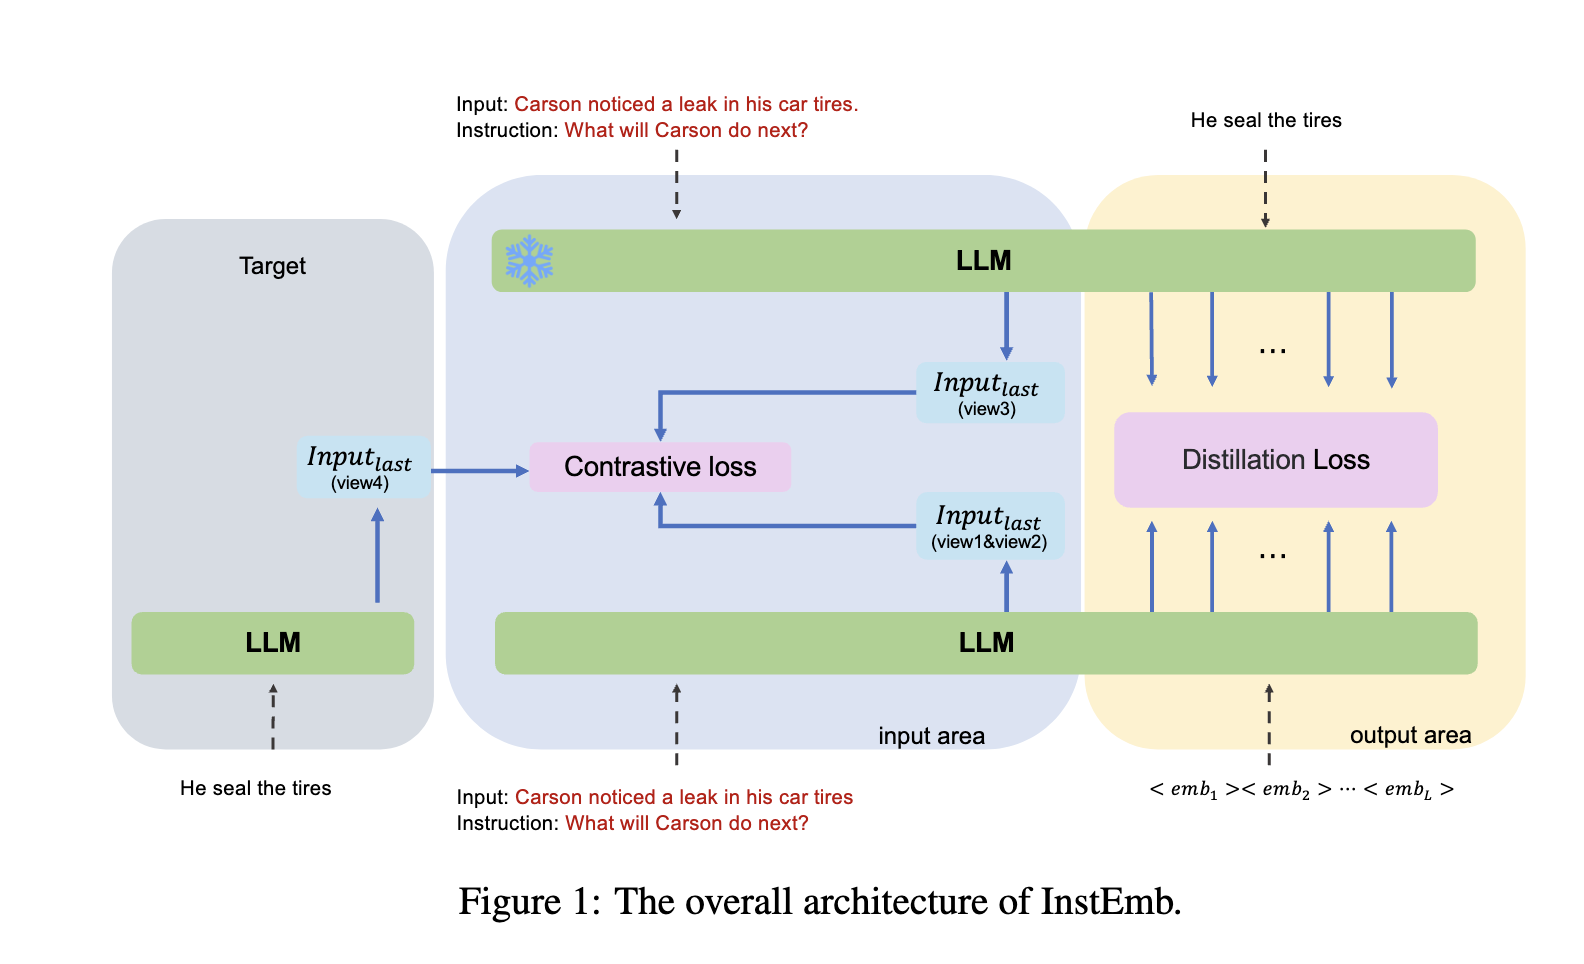
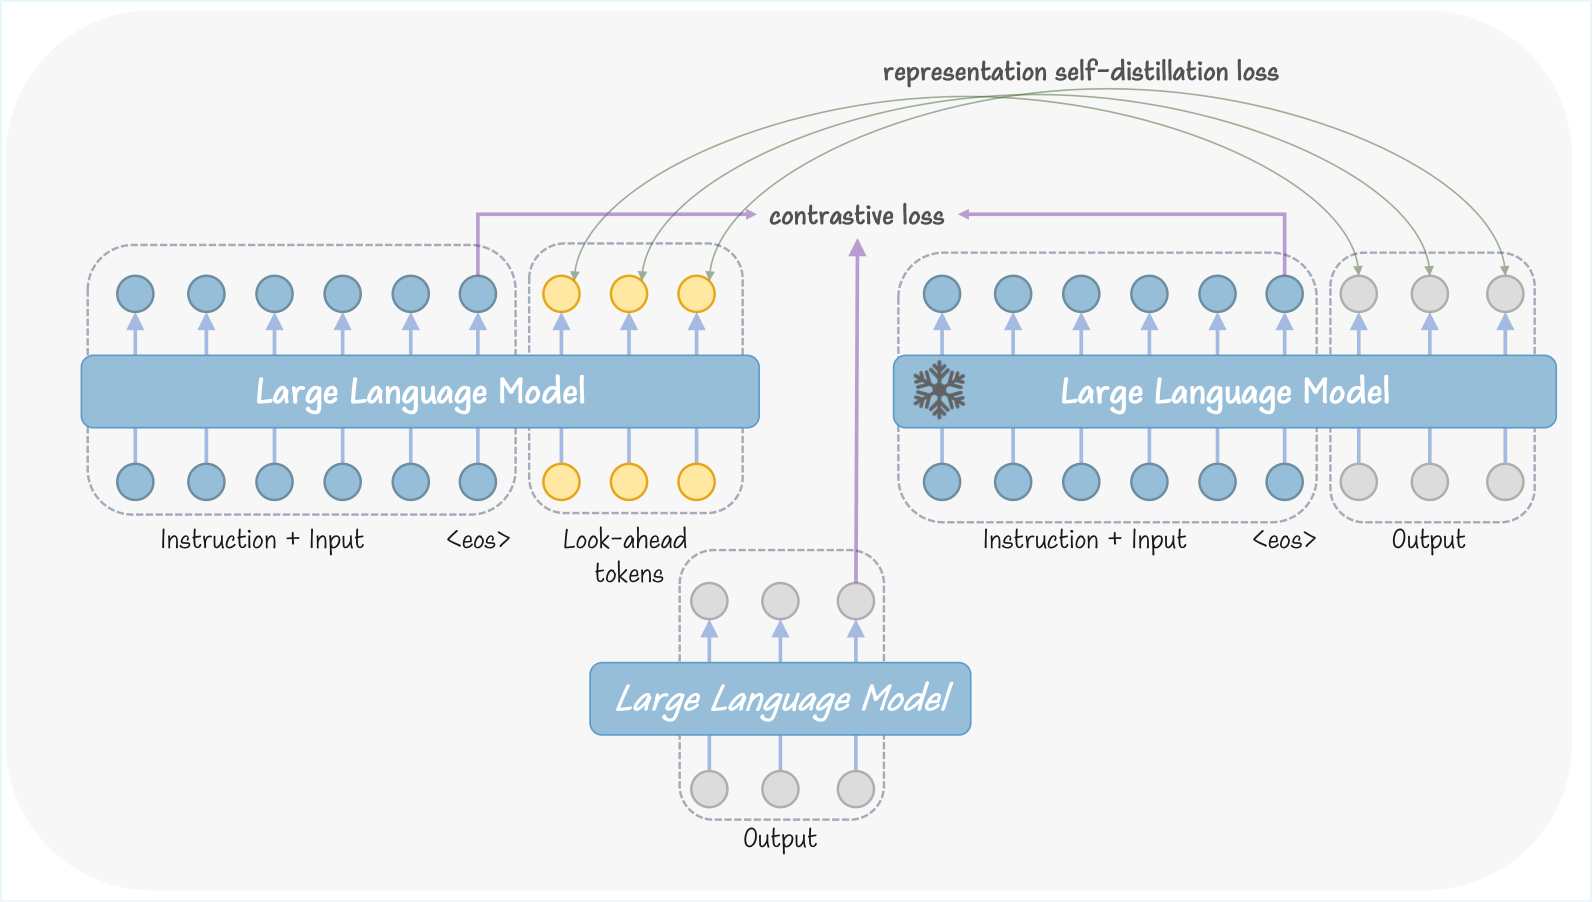
Update InstEmb figure and news links

diff --git a/index.md b/index.md
@@ -1,7 +1,7 @@
 ---
 layout: default
 title: Tianhao Gao
-description: Algorithm Engineer | NLP & LLM Retrieval | Representation Learning
+description: Algorithm Engineer | JD AI Product Graph | LLM/VLM & Representation Learning
 ---
 
 <section class="profile-container" id="about">
@@ -12,9 +12,9 @@ description: Algorithm Engineer | NLP & LLM Retrieval | Representation Learning
     <p class="eyebrow">Personal Homepage</p>
     <h1>Tianhao Gao</h1>
     <p class="lead">
-      I am an algorithm engineer at JD.com, working on large language models, retrieval, representation learning,
-      and product understanding systems. My research interests include instruction-following embeddings,
-      information extraction, sentiment analysis, and practical NLP systems for e-commerce.
+      I am an algorithm engineer at JD.com, where I build JD's AI Product Graph and item-understanding systems.
+      My work focuses on large-scale LLM/VLM training and inference, reinforcement learning methods,
+      representation learning, retrieval, and industrial NLP systems for e-commerce.
     </p>
     <ul class="profile-meta">
       <li><strong>Algorithm Engineer</strong>, JD.com, 2022-Present</li>
@@ -35,9 +35,10 @@ description: Algorithm Engineer | NLP & LLM Retrieval | Representation Learning
 
 ## News
 
-- **2026.07** - *InstEmb* accepted to ICML 2026 as a poster.
-- **2026.02** - *FANoise* accepted to AAAI 2026.
-- **2022.10** - *LEGO-ABSA* accepted to COLING 2022.
+- **2026.06** - Completed [**JD Oxygen AI Item Center (Oxygen AIIC) V1**](#projects), an industrial-scale LLM/VLM-centric solution for item understanding, management, and applications.
+- **2026.07** - [*InstEmb*](https://icml.cc/virtual/2026/poster/62511) accepted to ICML 2026 as a poster.
+- **2026.02** - [*FANoise*](https://ojs.aaai.org/index.php/AAAI/article/view/37545) accepted to AAAI 2026.
+- **2022.10** - [*LEGO-ABSA*](https://aclanthology.org/2022.coling-1.610/) accepted to COLING 2022.
 
 </section>
 
@@ -100,14 +101,13 @@ description: Algorithm Engineer | NLP & LLM Retrieval | Representation Learning
 
 <div class="project-grid">
   <article class="project-card">
-    <h3>Multimodal Product Content Tagging</h3>
-    <p>Built a multimodal tagging pipeline for e-commerce product understanding.</p>
+    <h3>JD Oxygen AI Item Center (Oxygen AIIC) / Large Product Understanding Model</h3>
+    <p>Built and iterated a large-scale LLM/VLM-centric item-understanding platform centered on JD's AI Product Graph.</p>
     <ul>
-      <li>Compared base models and architectures for production constraints.</li>
-      <li>Constructed high-quality training data with PySpark and Hive SQL.</li>
-      <li>Reached about <strong>90% accuracy</strong> with a recursive thresholding strategy.</li>
+      <li>Delivered Oxygen AIIC V1 for item understanding, management, and downstream applications.</li>
+      <li>Reached <strong>90%+</strong> accuracy in product-understanding tasks through continuous model and data iteration.</li>
+      <li>Accumulated large-scale data assets across taxonomy, attributes, knowledge graphs, and titles, adding over <strong>1TB</strong> of structured assets.</li>
     </ul>
-    <img src="figure/multimodal-loss.jpg" alt="Multimodal product tagging" class="project-image">
   </article>
 
   <article class="project-card">
@@ -141,22 +141,23 @@ description: Algorithm Engineer | NLP & LLM Retrieval | Representation Learning
   </article>
 
   <article class="project-card">
-    <h3>Large Product Understanding Model</h3>
-    <p>Built data and modeling capabilities for large-scale product understanding.</p>
-    <ul>
-      <li>Reached <strong>90%+</strong> accuracy in product-understanding tasks.</li>
-      <li>Accumulated large-scale data assets across taxonomy, attributes, knowledge graphs, and titles.</li>
-      <li>Added over <strong>1TB</strong> of structured data assets for downstream modeling.</li>
-    </ul>
-  </article>
-
-  <article class="project-card">
     <h3>Counterfeit Brand Title Detection</h3>
     <p>Designed a modular detection system for counterfeit-brand title risks.</p>
     <ul>
       <li>Decoupled detection challenges into explainable modules.</li>
       <li>Combined edit distance, minimum-window matching, recursive algorithms, and CV2-based signals.</li>
     </ul>
+  </article>
+
+  <article class="project-card">
+    <h3>Multimodal Product Content Tagging</h3>
+    <p>Built a multimodal tagging pipeline for e-commerce product understanding.</p>
+    <ul>
+      <li>Compared base models and architectures for production constraints.</li>
+      <li>Constructed high-quality training data with PySpark and Hive SQL.</li>
+      <li>Reached about <strong>90% accuracy</strong> with a recursive thresholding strategy.</li>
+    </ul>
+    <img src="figure/multimodal-loss.jpg" alt="Multimodal product tagging" class="project-image">
   </article>
 </div>
 